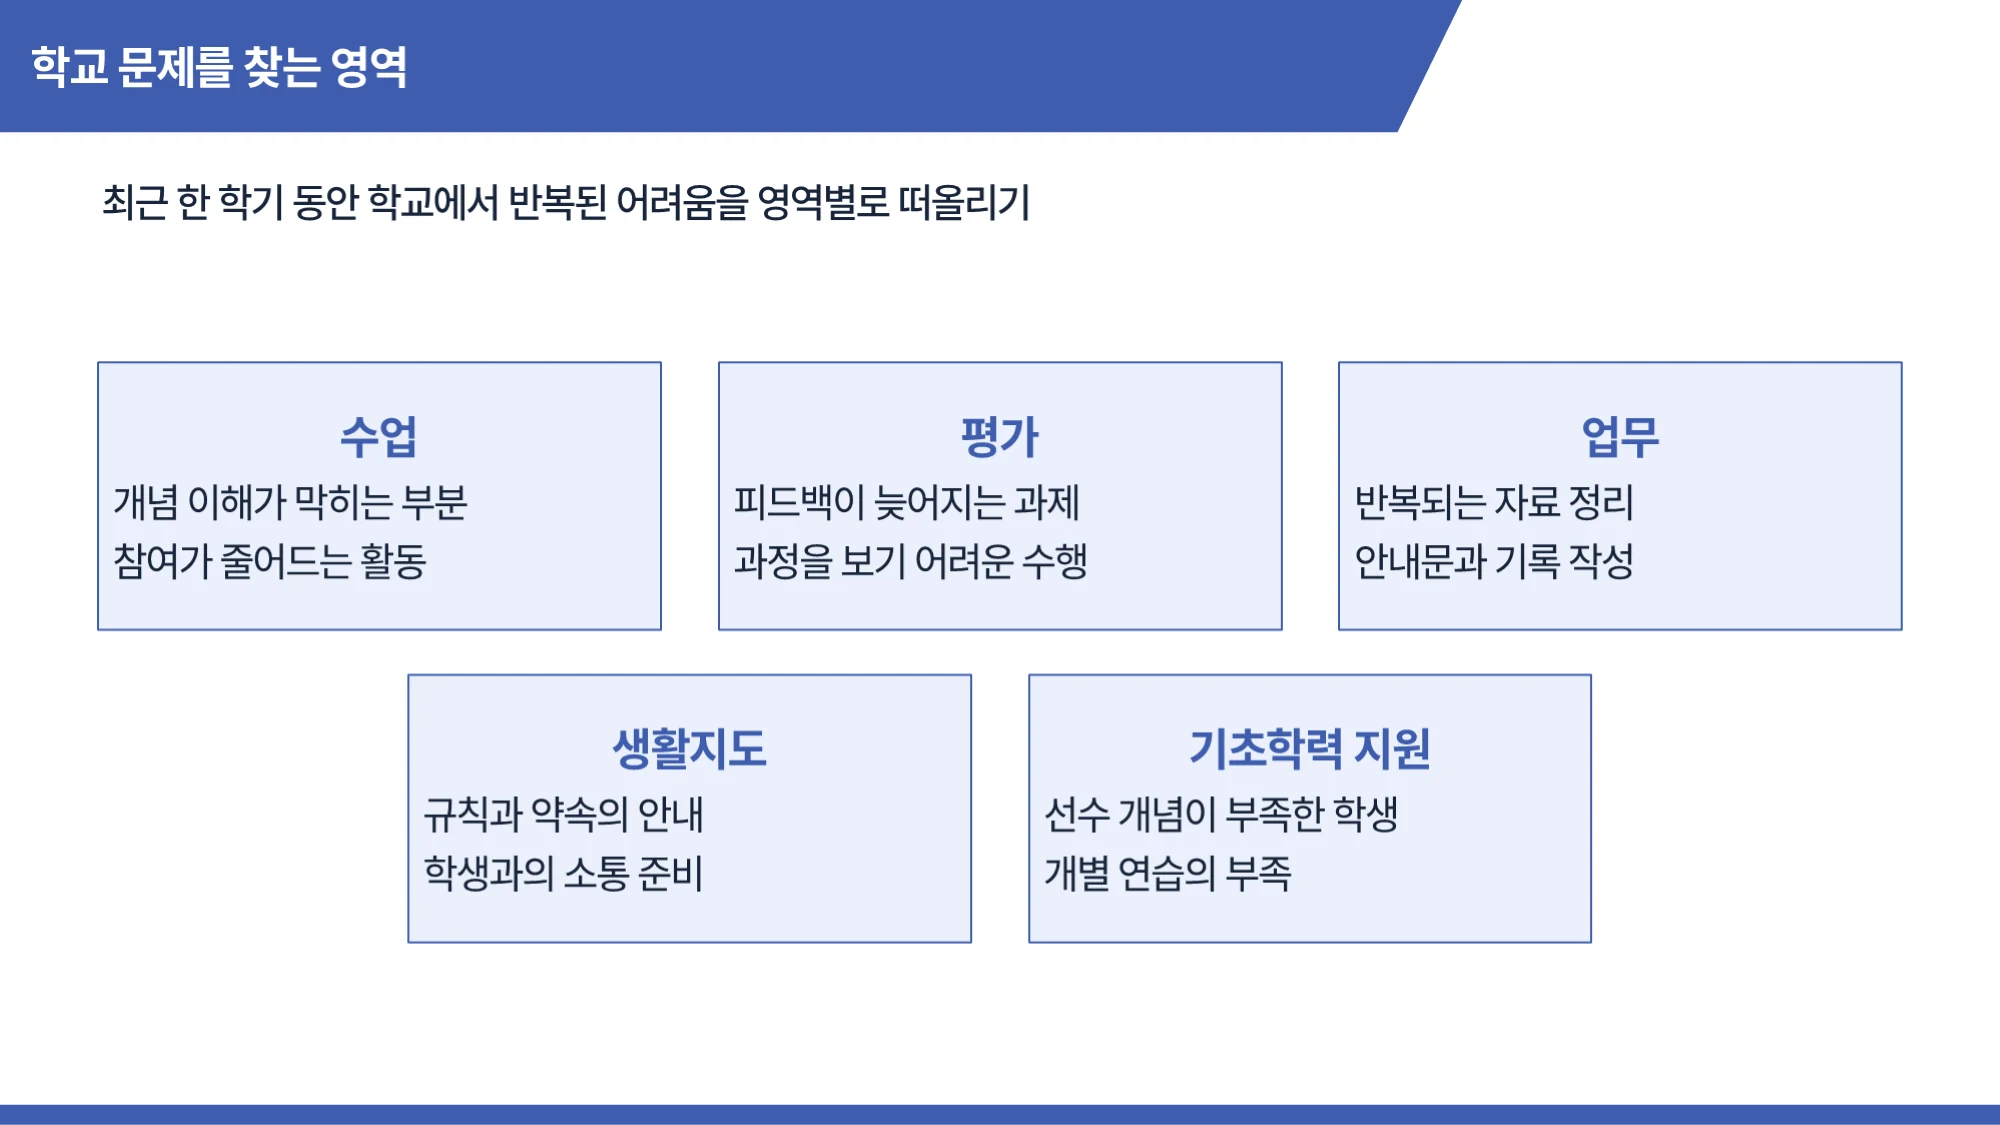
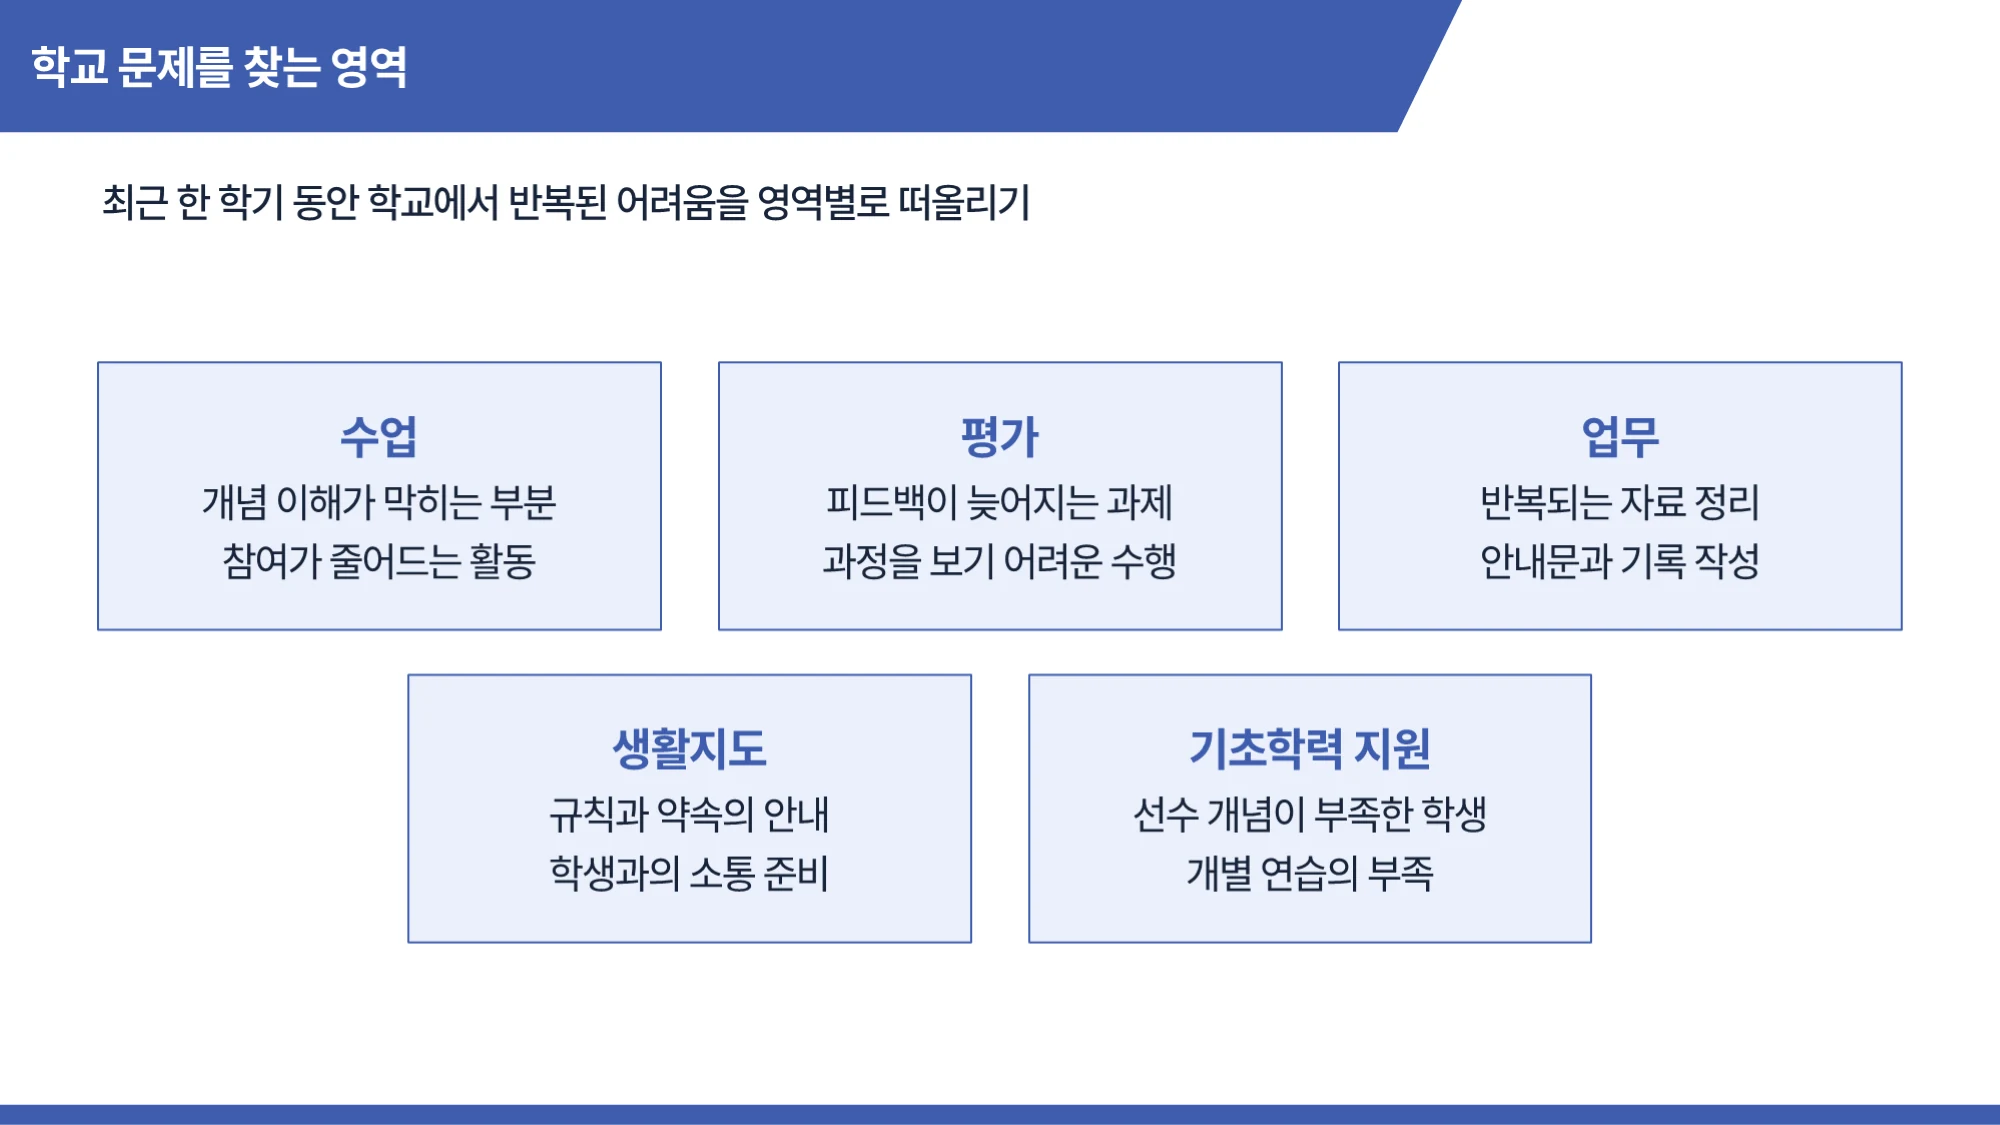
Centre the card text on three week 7 afternoon slides
The cards on source slides 9, 10 and 48 had a centred heading over
left-aligned lines, unlike the other card slides of the deck.

diff --git a/lectures/microdegree1/7-2/index.html b/lectures/microdegree1/7-2/index.html
@@ -12,11 +12,11 @@
                             <path d="M21 12.79A9 9 0 1 1 11.21 3 7 7 0 0 0 21 12.79z" stroke="currentColor" stroke-width="2" stroke-linecap="round" stroke-linejoin="round" />
                         </svg>
                     </button><button id="mobileMenuToggle" class="mobile-menu-toggle" aria-label="메뉴 열기" aria-expanded="false">☰</button></div></div></header>
-<main class="ce-viewer md-viewer" data-chapter="7-2" data-course="microdegree1" data-course-title="마이크로디그리 과정1" data-version="20261120c" id="main-content" tabindex="-1"><div class="ce-heading"><div><a href="/lectures/">강의자료</a> <span aria-hidden="true">›</span> <a href="/lectures/microdegree1/">마이크로디그리 과정1</a><h1>7주차 오후 인공지능 활용 교육 프로젝트 설계</h1></div><a href="/lectures/microdegree1/">전체 강의 보기</a></div>
+<main class="ce-viewer md-viewer" data-chapter="7-2" data-course="microdegree1" data-course-title="마이크로디그리 과정1" data-version="20261120d" id="main-content" tabindex="-1"><div class="ce-heading"><div><a href="/lectures/">강의자료</a> <span aria-hidden="true">›</span> <a href="/lectures/microdegree1/">마이크로디그리 과정1</a><h1>7주차 오후 인공지능 활용 교육 프로젝트 설계</h1></div><a href="/lectures/microdegree1/">전체 강의 보기</a></div>
 <svg width="0" height="0" style="position:absolute" aria-hidden="true"><defs><symbol id="ce-icon-chevron-left" viewBox="0 0 24 24"><path d="m15 18-6-6 6-6" /></symbol><symbol id="ce-icon-chevron-right" viewBox="0 0 24 24"><path d="m9 18 6-6-6-6" /></symbol><symbol id="ce-icon-list-filter" viewBox="0 0 24 24"><path d="M2 5h20" /><path d="M6 12h12" /><path d="M9 19h6" /></symbol><symbol id="ce-icon-printer" viewBox="0 0 24 24"><path d="M6 18H4a2 2 0 0 1-2-2v-5a2 2 0 0 1 2-2h16a2 2 0 0 1 2 2v5a2 2 0 0 1-2 2h-2" /><path d="M6 9V3a1 1 0 0 1 1-1h10a1 1 0 0 1 1 1v6" /><rect x="6" y="14" width="12" height="8" rx="1" /></symbol><symbol id="ce-icon-maximize" viewBox="0 0 24 24"><path d="M8 3H5a2 2 0 0 0-2 2v3" /><path d="M21 8V5a2 2 0 0 0-2-2h-3" /><path d="M3 16v3a2 2 0 0 0 2 2h3" /><path d="M16 21h3a2 2 0 0 0 2-2v-3" /></symbol><symbol id="ce-icon-minimize" viewBox="0 0 24 24"><path d="M8 3v3a2 2 0 0 1-2 2H3" /><path d="M21 8h-3a2 2 0 0 1-2-2V3" /><path d="M3 16h3a2 2 0 0 1 2 2v3" /><path d="M16 21v-3a2 2 0 0 1 2-2h3" /></symbol><symbol id="ce-icon-zoom-in" viewBox="0 0 24 24"><circle cx="11" cy="11" r="8" /><line x1="21" x2="16.65" y1="21" y2="16.65" /><line x1="11" x2="11" y1="8" y2="14" /><line x1="8" x2="14" y1="11" y2="11" /></symbol><symbol id="ce-icon-zoom-out" viewBox="0 0 24 24"><circle cx="11" cy="11" r="8" /><line x1="21" x2="16.65" y1="21" y2="16.65" /><line x1="8" x2="14" y1="11" y2="11" /></symbol><symbol id="ce-icon-x" viewBox="0 0 24 24"><path d="M18 6 6 18" /><path d="m6 6 12 12" /></symbol><symbol id="ce-icon-link" viewBox="0 0 24 24"><path d="M10 13a5 5 0 0 0 7.54.54l3-3a5 5 0 0 0-7.07-7.07l-1.72 1.71" /><path d="M14 11a5 5 0 0 0-7.54-.54l-3 3a5 5 0 0 0 7.07 7.07l1.71-1.71" /></symbol><symbol id="ce-icon-hash" viewBox="0 0 24 24"><line x1="4" x2="20" y1="9" y2="9" /><line x1="4" x2="20" y1="15" y2="15" /><line x1="10" x2="8" y1="3" y2="21" /><line x1="16" x2="14" y1="3" y2="21" /></symbol><symbol id="ce-icon-play" viewBox="0 0 24 24"><path d="M5 5a2 2 0 0 1 3.008-1.728l11.997 6.998a2 2 0 0 1 .003 3.458l-12 7A2 2 0 0 1 5 19z" /></symbol></defs></svg><div class="ce-stage" id="ce-stage"><div class="ce-viewport"><div class="ce-canvas"><img class="ce-slide-image" id="ce-image" width="2000" height="1125" alt="강의 슬라이드" aria-describedby="ce-slide-text" src="/images/lectures/microdegree1/7-2/001.webp"><div id="ce-media"></div><section class="ce-lab md-lab" id="ce-lab" hidden aria-label="체험 슬라이드"></section></div></div><div class="ce-toolbar" role="toolbar" aria-label="슬라이드 도구"><button id="ce-prev" type="button" class="ce-glass ce-prev" aria-label="이전 슬라이드" data-tip="이전 슬라이드" ><svg class="ce-icon" viewBox="0 0 24 24" aria-hidden="true" focusable="false"><use href="#ce-icon-chevron-left"></use></svg></button><button id="ce-next" type="button" class="ce-glass ce-next" aria-label="다음 슬라이드" data-tip="다음 슬라이드" ><svg class="ce-icon" viewBox="0 0 24 24" aria-hidden="true" focusable="false"><use href="#ce-icon-chevron-right"></use></svg></button><button id="ce-open-toc" type="button" class="ce-glass " aria-label="목차 검색" data-tip="목차 검색" ><svg class="ce-icon" viewBox="0 0 24 24" aria-hidden="true" focusable="false"><use href="#ce-icon-list-filter"></use></svg></button><button id="ce-open-page" type="button" class="ce-glass " aria-label="페이지 이동" data-tip="페이지 이동" ><svg class="ce-icon" viewBox="0 0 24 24" aria-hidden="true" focusable="false"><use href="#ce-icon-hash"></use></svg></button><button id="ce-open-links" type="button" class="ce-glass " aria-label="관련 링크" data-tip="관련 링크" hidden><svg class="ce-icon" viewBox="0 0 24 24" aria-hidden="true" focusable="false"><use href="#ce-icon-link"></use></svg></button><button id="ce-zoom" type="button" class="ce-glass " aria-label="확대" data-tip="확대" aria-pressed="false"><svg class="ce-icon" viewBox="0 0 24 24" aria-hidden="true" focusable="false"><use href="#ce-icon-zoom-in"></use></svg></button><button id="ce-fullscreen" type="button" class="ce-glass " aria-label="전체 화면" data-tip="전체 화면" aria-keyshortcuts="f"><svg class="ce-icon" viewBox="0 0 24 24" aria-hidden="true" focusable="false"><use href="#ce-icon-maximize"></use></svg></button><button id="ce-print" type="button" class="ce-glass " aria-label="인쇄" data-tip="인쇄" ><svg class="ce-icon" viewBox="0 0 24 24" aria-hidden="true" focusable="false"><use href="#ce-icon-printer"></use></svg></button></div><span class="ce-loading" id="ce-loading">불러오는 중</span></div><p id="ce-status" class="sr-only" aria-live="polite"></p><p id="ce-slide-text" class="sr-only"></p><span id="ce-page-label" class="sr-only"></span><nav class="ce-after" aria-label="이전과 다음 강의"><a href="/lectures/microdegree1/7-1/">← 7주차 오전 공정성과 편향성 및 책임 있는 활용 Part 2</a><a href="/lectures/microdegree1/8-1/">8주차 오전 프로젝트 발표 및 종합 평가, 수료식 →</a></nav>
 <dialog class="ce-dialog" id="ce-dialog"><header><h2>목차 검색</h2><button id="ce-close-toc" type="button" class="ce-glass " aria-label="닫기" data-tip="닫기" data-close><svg class="ce-icon" viewBox="0 0 24 24" aria-hidden="true" focusable="false"><use href="#ce-icon-x"></use></svg></button></header><label for="ce-search">제목 또는 본문으로 찾기</label><input id="ce-search" type="search" placeholder="검색어를 입력하세요"><div class="ce-toc" id="ce-toc"></div></dialog>
 <dialog class="ce-dialog ce-small-dialog" id="ce-page-dialog"><header><h2>페이지 이동</h2><button id="ce-close-page" type="button" class="ce-glass " aria-label="닫기" data-tip="닫기" data-close><svg class="ce-icon" viewBox="0 0 24 24" aria-hidden="true" focusable="false"><use href="#ce-icon-x"></use></svg></button></header><form id="ce-go-page"><label for="ce-page">전체 <span id="ce-total">57</span>쪽</label><input id="ce-page" type="number" min="1" max="57" value="1" required><button class="ce-submit" type="submit">이동</button></form></dialog>
-<dialog class="ce-dialog ce-small-dialog" id="ce-links-dialog"><header><h2>관련 링크</h2><button id="ce-close-links" type="button" class="ce-glass " aria-label="닫기" data-tip="닫기" data-close><svg class="ce-icon" viewBox="0 0 24 24" aria-hidden="true" focusable="false"><use href="#ce-icon-x"></use></svg></button></header><div class="ce-links" id="ce-links"></div></dialog></main><noscript><p>슬라이드 이동과 체험에는 자바스크립트가 필요합니다.</p></noscript><script src="/js/microdegree1-labs.js?v=20261013a"></script><script src="/js/microdegree1-labs-7-2.js?v=20261120c"></script><script src="/js/lecture-image-zoom.js?v=20261022a"></script>
+<dialog class="ce-dialog ce-small-dialog" id="ce-links-dialog"><header><h2>관련 링크</h2><button id="ce-close-links" type="button" class="ce-glass " aria-label="닫기" data-tip="닫기" data-close><svg class="ce-icon" viewBox="0 0 24 24" aria-hidden="true" focusable="false"><use href="#ce-icon-x"></use></svg></button></header><div class="ce-links" id="ce-links"></div></dialog></main><noscript><p>슬라이드 이동과 체험에는 자바스크립트가 필요합니다.</p></noscript><script src="/js/microdegree1-labs.js?v=20261013a"></script><script src="/js/microdegree1-labs-7-2.js?v=20261120d"></script><script src="/js/lecture-image-zoom.js?v=20261022a"></script>
 <script src="/js/local-progress.js" defer></script>
 <script src="/js/site-learning.js" defer></script>
 <script src="/js/lecture-tools.js?v=20261107ui" defer></script>

diff --git a/scripts/sync_microdegree1.py b/scripts/sync_microdegree1.py
@@ -28,7 +28,7 @@ PLAYER_VERSION = '20261102video'  # computer-education2.js, the shared slide pla
 VIEWER_VERSION = '20261022a'  # shared viewer and picture-zoom assets
 # Sessions rebuilt from a revised deck get a new data and activity version, so no browser pairs old data with new images.
 SESSION_VERSIONS = {key: '20261113b' for key in ('1-1', '1-2', '2-1', '2-2', '3-1', '3-2', '4-1', '4-2', '5-1', '5-2', '6-1', '6-2', '7-1', '7-2', '8-1')}
-SESSION_VERSIONS['7-2'] = '20261120c'  # the 2027 curriculum year, the assessment guidance slide, two table rows
+SESSION_VERSIONS['7-2'] = '20261120d'  # the 2027 curriculum year, the assessment guidance slide, two table rows
 SESSION_VERSIONS['6-2'] = '20261114b'  # the review film after the title slide; two news videos and two more practices
 
 # id, week, half, title, card summary, source slides left out because they only introduce instructors.

diff --git a/data/lectures/microdegree1/README.md b/data/lectures/microdegree1/README.md
@@ -130,3 +130,5 @@ python scripts/sync_microdegree1_linux.py --source <PPTX 파일> --session 6-2 -
 - 같은 날 용어를 한 번 더 고쳤다. 문체 프로파일 검사기(`check_style_profile.py`)로 슬라이드와 체험 문구를 훑은 결과다. 활동 안내의 `산출물`을 `결과물`로 바꾸었고(원본 3, 15, 24, 46, 47쪽) 평가 항목 이름인 42쪽 `과제 및 산출물`은 두었다. TPACK 용어는 그림에 맞추어 `교수`, `테크놀로지`로 통일했다(33, 34쪽과 `tpackPlace`). 14쪽은 법 조문대로 `유아, 초등, 중등 교육의 학생 평가`로, 23쪽 백워드 설계 1단계는 `바라는 결과`로 고쳤다. 15, 46쪽의 `목적은 ~하는 것입니다`를 풀어 썼고 체험 문구의 연결어미 뒤 쉼표 세 곳을 지웠다. 이 직전 교안은 `_이전본`의 `_수정전_261120_2`다. 쪽수는 그대로이고 7-2 점검(57쪽, 체험 9개)을 다시 통과했다.
 
 - 같은 날 본문을 개조식으로 바꾸었다. `~의 흐름`, `~의 쓰임`, `근거 자료가 됩니다`, `다섯 영역`, `~담습니다` 같은 표현이 생성형 AI의 글처럼 읽힌다는 지적에 따른 것이다. 제목은 그 쪽에 있는 것을 가리키는 말로 고쳤다(`활용안 설계 순서`, `앞 교과목 기록 활용`, `학교 문제를 찾는 영역`, `문제 정의 문장 쓰는 법`, `도구 중심 계획과 문제 중심 계획`, `백워드 설계의 3단계`, `루브릭 평가 기준`, `마무리 점검 질문`). 본문은 명사나 `~함`, `~기`로 끝내고 풀어 쓴 이유는 발표자 노트로 옮겼다. 예시로 든 문제 정의 문장과 학습 목표 문장 세 개만 문장 그대로 두었다. `차시 흐름`은 `차시 활동`으로 바꾸었고 체험의 같은 낱말(출발, 지점, 드러나다, 이어지다, 맞물리다, 칸)과 제목 네 개도 함께 고쳤다. 이 직전 교안은 `_이전본`의 `_수정전_261120_3`이다. 다른 회차는 `~합니다` 체 그대로다. 7-2 점검(57쪽, 체험 9개)을 통과했고 체험 9개가 1366px 너비에서 16:9 틀 안에 들어간다.
+
+- 같은 날 카드 안 설명 줄을 가운데로 맞췄다. 원본 9, 10, 48쪽의 카드는 제목만 가운데이고 설명 줄은 왼쪽 정렬이어서 17, 23, 28, 36쪽 카드와 달랐다. 문구는 그대로이고 이 직전 교안은 `_이전본`의 `_수정전_261120_4`다.
